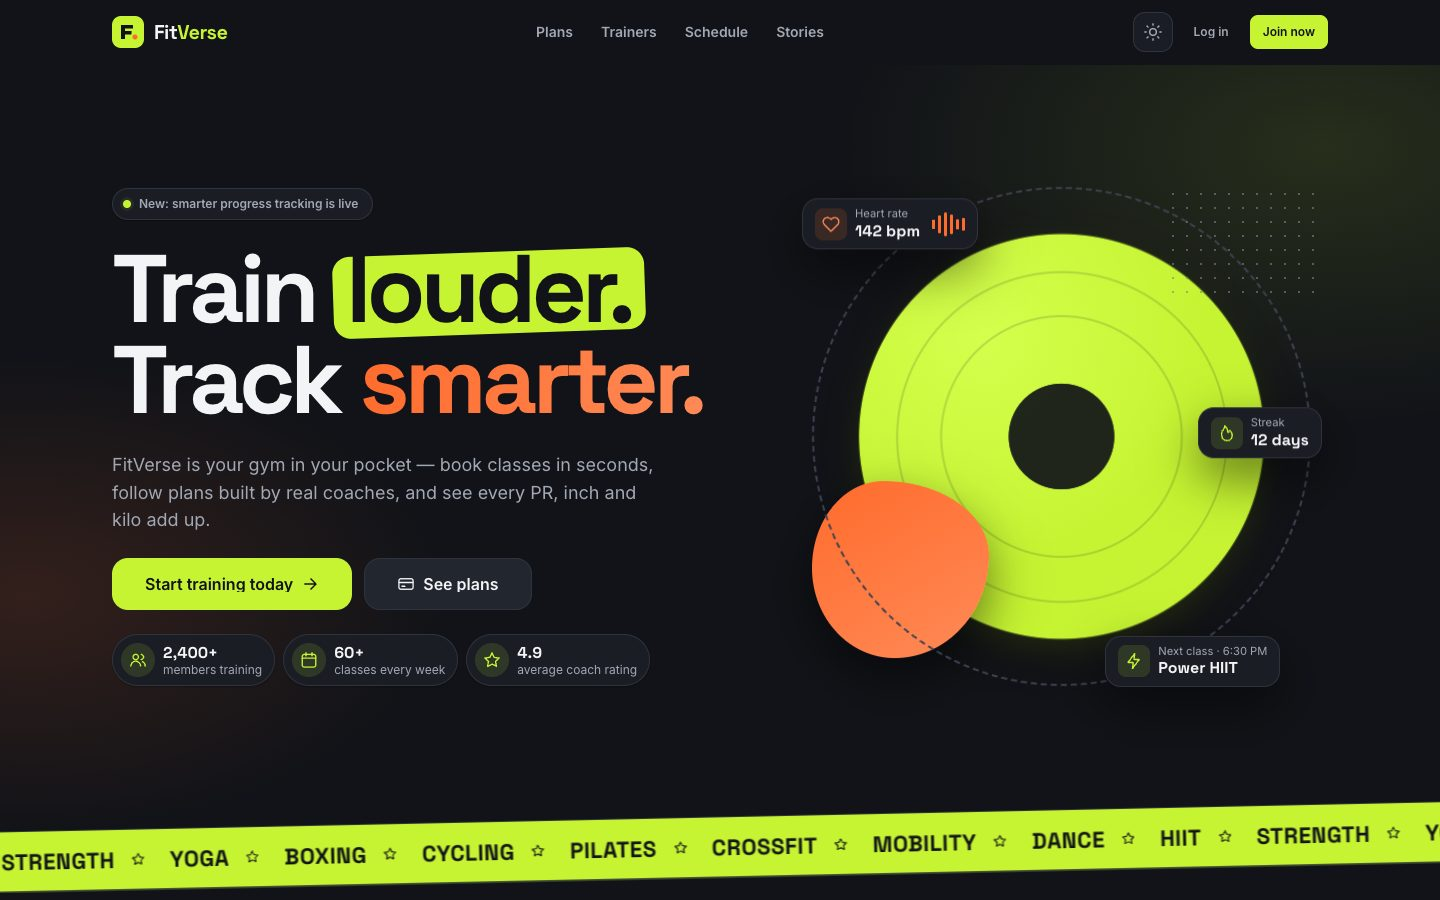
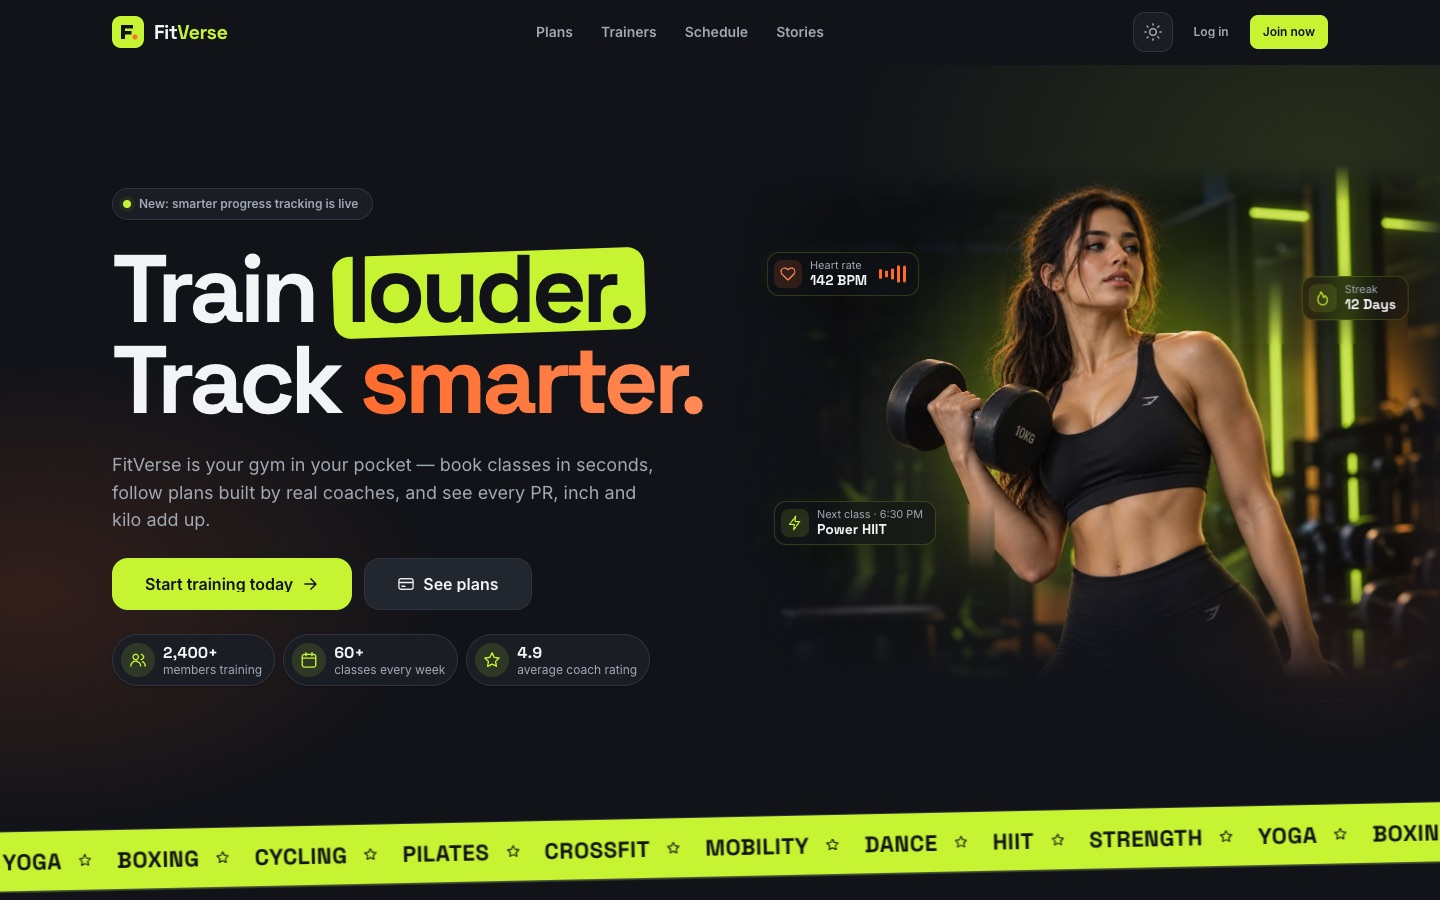
Update README for new hero section

Changed region(s): [[0.5312, 0.1867, 1.0, 0.7778], [0.0, 0.9022, 0.8438, 0.9644], [0.875, 0.9022, 1.0, 0.9644]]

diff --git a/README.md b/README.md
@@ -57,7 +57,7 @@ FitVerse has three types of users. Each one gets their own area of the app.
 - **Settings:** gym details, opening hours and booking rules (cancellation window, weekly booking limit).
 
 ### ✨ Everywhere
-- **Public landing page** with live plans, trainers and this week's schedule.
+- **Public landing page** with a photo hero (floating, animated stats cards and a light parallax effect), plus live plans, trainers and this week's schedule.
 - **Accounts:** register, log in, forgot and reset password. You stay logged in across page reloads.
 - **Layout:** responsive, with a sidebar on desktop and a bottom navigation bar on mobile.
 - **Themes:** dark and light, remembered between visits.
@@ -163,6 +163,12 @@ Open **http://localhost:5173**. The frontend forwards all `/api` requests to the
 | `server/` | `npm run seed` | Reset the database with demo data (blocked in production) |
 | `server/` | `npm run create-admin` | Create or reset an admin account |
 
+### Changing the hero image
+
+The landing hero photo lives at `src/assets/hero-fitness-woman.webp` (1366×1024). To use a different one, replace that file and keep the same name. A dark, landscape photo works best because the edges fade into the page background.
+- **Floating cards:** their text is in `src/components/landing/Hero.jsx`.
+- **Card positions and animations:** in `src/styles/LandingHero.module.css`.
+
 ---
 
 ## Demo accounts
@@ -187,10 +193,11 @@ These are created by `npm run seed` on **your local database only**. All passwor
 FitVerse/
 ├── src/                      # React frontend
 │   ├── api/                  # Axios setup + one file per resource (classes, plans, ...)
+│   ├── assets/               # Bundled images (landing hero photo)
 │   ├── components/
 │   │   ├── common/           # Buttons, inputs, modals, tables, charts, cards...
 │   │   ├── forms/            # Login, register, workout, class, plan, trainer forms
-│   │   ├── landing/          # Landing page sections
+│   │   ├── landing/          # Landing page sections (Hero, HeroPhoto, plans, schedule...)
 │   │   ├── layout/           # Sidebar, navbar, mobile nav, page layouts
 │   │   └── trainer/          # Plan builder, attendance list
 │   ├── context/              # AuthContext (login state), ThemeContext
